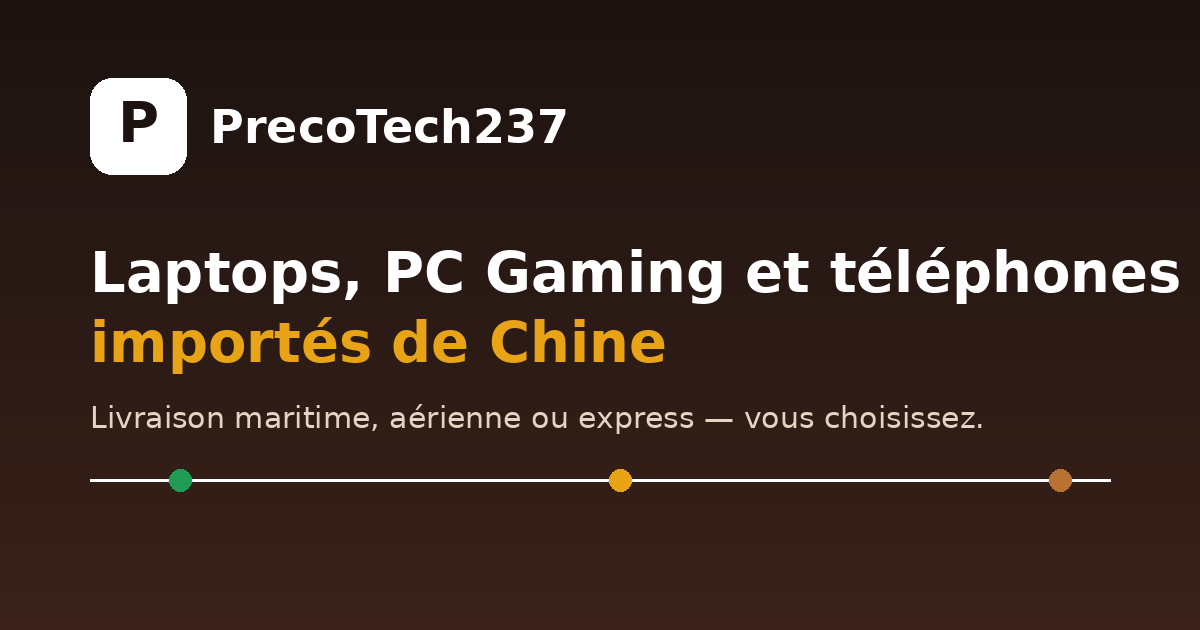
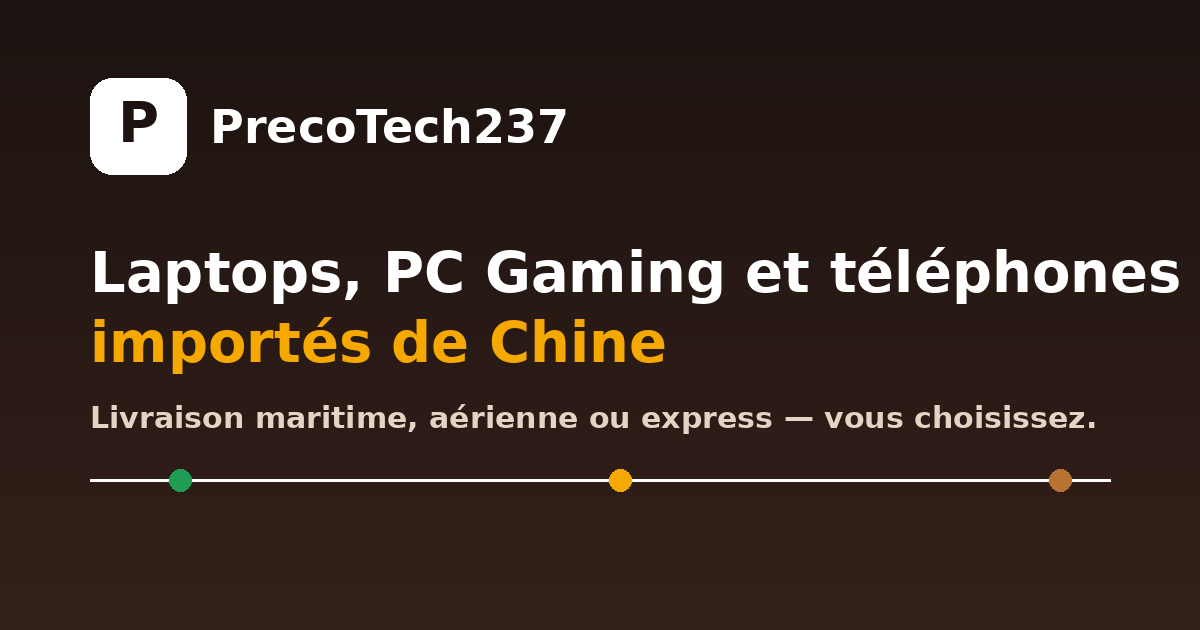
Corrige les pastilles de filtre non stylées, refonte du menu mobile (liens, séparateurs, CTA, animation burger), palette rouge/or plus vive

Changed region(s): [[0.0925, 0.6333, 0.925, 0.6937]]

diff --git a/css/style.css b/css/style.css
@@ -10,11 +10,11 @@
 :root{
   --navy: #1C1310;
   --navy-2: #34201A;
-  --blue: #C0272D;
+  --blue: #E0262C;
   --green: #1F9D55;
   --green-dark: #157A41;
-  --gold: #E8A317;
-  --gold-dark: #B9800E;
+  --gold: #F5A800;
+  --gold-dark: #C27C00;
   --whatsapp: #25D366;
   --ink: #18120F;
   --slate: #5B6472;
@@ -96,16 +96,29 @@ nav.main-nav a{ color: var(--ink); font-weight:600; font-size:.93rem; }
 nav.main-nav a:hover{ color: var(--blue); }
 nav.main-nav a.active{ color: var(--green-dark); }
 .nav-cta{ display:flex; align-items:center; gap:12px; }
-.burger{ display:none; background:none; border:none; cursor:pointer; }
-.burger span{ display:block; width:24px; height:2px; background:var(--navy); margin:5px 0; }
+.burger{ display:none; background:none; border:none; cursor:pointer; padding:6px; z-index:210; position:relative; }
+.burger span{ display:block; width:24px; height:2px; background:var(--navy); margin:5px 0; border-radius:2px; transition: transform .2s ease, opacity .2s ease; }
+.burger.open span:nth-child(1){ transform: translateY(7px) rotate(45deg); }
+.burger.open span:nth-child(2){ opacity:0; }
+.burger.open span:nth-child(3){ transform: translateY(-7px) rotate(-45deg); }
 
 @media (max-width: 860px){
+  .burger{ display:block; }
   nav.main-nav{
-    position:fixed; inset: 68px 0 0 0; background:#fff; flex-direction:column;
-    padding: 32px 24px; gap:20px; transform: translateX(100%); transition: transform .25s ease;
+    position:fixed; inset: 68px 0 0 0; background:#fff; flex-direction:column; align-items:stretch;
+    padding: 12px 0 24px; gap:0; transform: translateX(100%); transition: transform .25s ease;
+    overflow-y:auto; z-index:150; box-shadow: -8px 0 30px rgba(0,0,0,.12);
   }
   nav.main-nav.open{ transform: translateX(0); }
-  .burger{ display:block; }
+  nav.main-nav a{
+    padding:16px 24px; border-bottom:1px solid var(--line); font-size:1rem; width:100%;
+  }
+  nav.main-nav a::after{ display:none; }
+  nav.main-nav a.active{ background: var(--off-white); color: var(--blue); font-weight:800; }
+  nav.main-nav .mobile-cta{
+    display:flex; margin:20px 24px 0; padding:14px 20px; background: var(--blue); color:#fff;
+    border-radius:8px; font-family:'Sora',sans-serif; font-weight:700; justify-content:center;
+  }
   .nav-cta .btn-outline{ display:none; }
 }
 
@@ -401,6 +414,16 @@ nav.main-nav a:hover::after, nav.main-nav a.active::after{ width:100%; }
   .transport-strip-item{ width:100%; border-bottom:1px dashed var(--line); }
   .transport-strip-more{ align-self:flex-end; }
 }
+/* Pastilles de filtre catégorie (accueil) */
+.cat-pills{ display:flex; gap:10px; flex-wrap:wrap; margin-bottom:28px; }
+.cat-pills .pill{
+  font-family:'Sora',sans-serif; font-weight:700; font-size:.86rem; color: var(--navy);
+  background:#fff; border:1.5px solid var(--line); border-radius:30px; padding:10px 20px;
+  cursor:pointer; transition: all .15s ease;
+}
+.cat-pills .pill:hover{ border-color: var(--blue); color: var(--blue); }
+.cat-pills .pill.active{ background: var(--navy); border-color: var(--navy); color:#fff; }
+
 .mt-0{margin-top:0;} .text-center{text-align:center;}
 .tag-list{ display:flex; gap:8px; flex-wrap:wrap; margin-top:10px; }
 .tag{ background: var(--off-white); border:1px solid var(--line); font-size:.75rem; padding:4px 10px; border-radius:20px; color: var(--slate); }

diff --git a/js/main.js b/js/main.js
@@ -13,6 +13,14 @@ document.addEventListener('DOMContentLoaded', function(){
   if (burger && nav){
     burger.addEventListener('click', function(){
       nav.classList.toggle('open');
+      burger.classList.toggle('open');
+    });
+    // Referme le menu automatiquement quand on clique un lien (évite de rester bloqué dessus)
+    nav.querySelectorAll('a').forEach(function(link){
+      link.addEventListener('click', function(){
+        nav.classList.remove('open');
+        burger.classList.remove('open');
+      });
     });
   }
 });
@@ -91,9 +99,9 @@ function productCardHTML(p){
 
 function productIconSVG(categorie){
   const icons = {
-    'laptops': `<svg width="56" height="56" viewBox="0 0 24 24" fill="none" stroke="#C0272D" stroke-width="1.5"><rect x="4" y="4" width="16" height="10" rx="1"/><path d="M2 18h20l-1.5-2H3.5L2 18z"/></svg>`,
-    'pc-gaming': `<svg width="56" height="56" viewBox="0 0 24 24" fill="none" stroke="#C0272D" stroke-width="1.5"><rect x="3" y="5" width="18" height="12" rx="1"/><path d="M8 20h8M12 17v3"/><circle cx="8" cy="11" r="1"/><circle cx="16" cy="11" r="1"/></svg>`,
-    'telephones': `<svg width="56" height="56" viewBox="0 0 24 24" fill="none" stroke="#C0272D" stroke-width="1.5"><rect x="7" y="2" width="10" height="20" rx="2"/><path d="M11 18h2"/></svg>`
+    'laptops': `<svg width="56" height="56" viewBox="0 0 24 24" fill="none" stroke="#E0262C" stroke-width="1.5"><rect x="4" y="4" width="16" height="10" rx="1"/><path d="M2 18h20l-1.5-2H3.5L2 18z"/></svg>`,
+    'pc-gaming': `<svg width="56" height="56" viewBox="0 0 24 24" fill="none" stroke="#E0262C" stroke-width="1.5"><rect x="3" y="5" width="18" height="12" rx="1"/><path d="M8 20h8M12 17v3"/><circle cx="8" cy="11" r="1"/><circle cx="16" cy="11" r="1"/></svg>`,
+    'telephones': `<svg width="56" height="56" viewBox="0 0 24 24" fill="none" stroke="#E0262C" stroke-width="1.5"><rect x="7" y="2" width="10" height="20" rx="2"/><path d="M11 18h2"/></svg>`
   };
   return icons[categorie] || icons['laptops'];
 }

diff --git a/a-propos.html b/a-propos.html
@@ -31,6 +31,7 @@
       <a href="comment-ca-marche.html">Comment ça marche</a>
       <a href="a-propos.html" class="active">À propos</a>
       <a href="contact.html">Contact</a>
+      <a href="commander.html" class="mobile-cta">Commander</a>
     </nav>
     <div class="nav-cta">
       <a href="commander.html" class="btn btn-outline">Commander</a>

diff --git a/comment-ca-marche.html b/comment-ca-marche.html
@@ -31,6 +31,7 @@
       <a href="comment-ca-marche.html" class="active">Comment ça marche</a>
       <a href="a-propos.html">À propos</a>
       <a href="contact.html">Contact</a>
+      <a href="commander.html" class="mobile-cta">Commander</a>
     </nav>
     <div class="nav-cta">
       <a href="commander.html" class="btn btn-outline">Commander</a>

diff --git a/contact.html b/contact.html
@@ -31,6 +31,7 @@
       <a href="comment-ca-marche.html">Comment ça marche</a>
       <a href="a-propos.html">À propos</a>
       <a href="contact.html" class="active">Contact</a>
+      <a href="commander.html" class="mobile-cta">Commander</a>
     </nav>
     <div class="nav-cta">
       <a href="commander.html" class="btn btn-outline">Commander</a>

diff --git a/commander.html b/commander.html
@@ -31,6 +31,7 @@
       <a href="comment-ca-marche.html">Comment ça marche</a>
       <a href="a-propos.html">À propos</a>
       <a href="contact.html">Contact</a>
+      <a href="commander.html" class="mobile-cta">Commander</a>
     </nav>
     <div class="nav-cta">
       <a href="commander.html" class="btn btn-outline">Commander</a>

diff --git a/faq.html b/faq.html
@@ -32,6 +32,7 @@
       <a href="comment-ca-marche.html">Comment ça marche</a>
       <a href="a-propos.html">À propos</a>
       <a href="contact.html">Contact</a>
+      <a href="commander.html" class="mobile-cta">Commander</a>
     </nav>
     <div class="nav-cta">
       <a href="commander.html" class="btn btn-outline">Commander</a>

diff --git a/garantie-retours.html b/garantie-retours.html
@@ -32,6 +32,7 @@
       <a href="comment-ca-marche.html">Comment ça marche</a>
       <a href="a-propos.html">À propos</a>
       <a href="contact.html">Contact</a>
+      <a href="commander.html" class="mobile-cta">Commander</a>
     </nav>
     <div class="nav-cta">
       <a href="commander.html" class="btn btn-outline">Commander</a>

diff --git a/index.html b/index.html
@@ -32,6 +32,7 @@
       <a href="comment-ca-marche.html">Comment ça marche</a>
       <a href="a-propos.html">À propos</a>
       <a href="contact.html">Contact</a>
+      <a href="commander.html" class="mobile-cta">Commander</a>
     </nav>
     <div class="nav-cta">
       <a href="commander.html" class="btn btn-outline">Commander</a>

diff --git a/mentions-legales.html b/mentions-legales.html
@@ -32,6 +32,7 @@
       <a href="comment-ca-marche.html">Comment ça marche</a>
       <a href="a-propos.html">À propos</a>
       <a href="contact.html">Contact</a>
+      <a href="commander.html" class="mobile-cta">Commander</a>
     </nav>
     <div class="nav-cta">
       <a href="commander.html" class="btn btn-outline">Commander</a>

diff --git a/produit.html b/produit.html
@@ -31,6 +31,7 @@
       <a href="comment-ca-marche.html">Comment ça marche</a>
       <a href="a-propos.html">À propos</a>
       <a href="contact.html">Contact</a>
+      <a href="commander.html" class="mobile-cta">Commander</a>
     </nav>
     <div class="nav-cta">
       <a href="commander.html" class="btn btn-outline">Commander</a>

diff --git a/produits.html b/produits.html
@@ -32,6 +32,7 @@
       <a href="comment-ca-marche.html">Comment ça marche</a>
       <a href="a-propos.html">À propos</a>
       <a href="contact.html">Contact</a>
+      <a href="commander.html" class="mobile-cta">Commander</a>
     </nav>
     <div class="nav-cta">
       <a href="commander.html" class="btn btn-outline">Commander</a>
